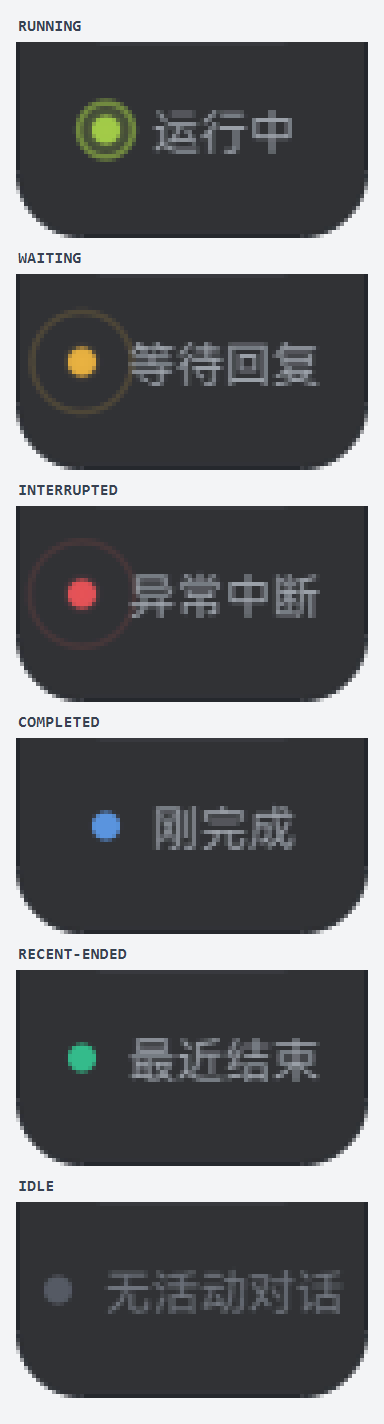
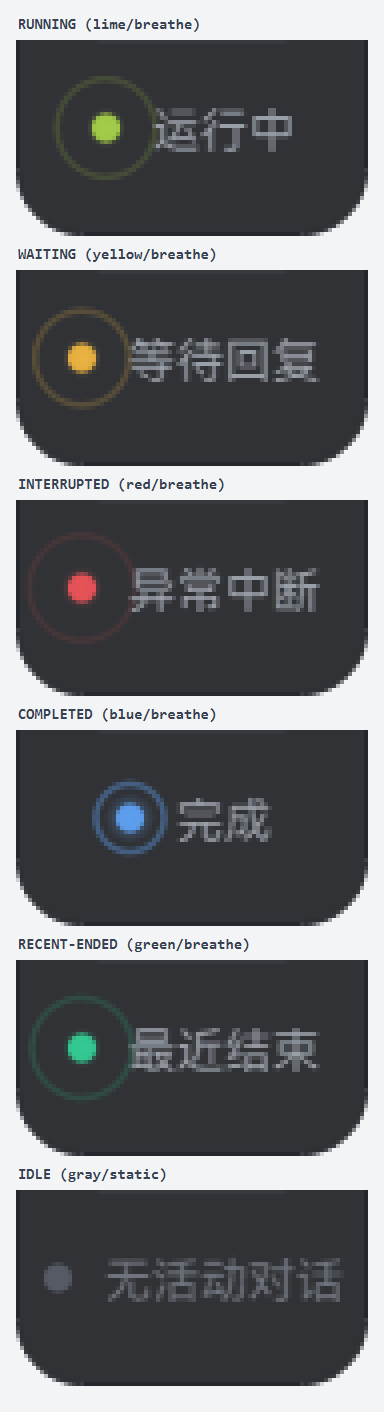
v0.1.11: activity light tweaks (completed label / breathe for all but idle)
Rename the Completed activity state label from 刚完成 to 完成. Make WatchBadge breathe for every state except Idle (gray): Completed (blue) and RecentlyEnded (green) now animate glow+ripple instead of staying static. Regenerate docs/activity-indicator.png. Update README/HANDOFF/CONVERSATION_HANDOFF. Bump version 0.1.11.

diff --git a/core/Types.h b/core/Types.h
@@ -179,7 +179,7 @@ inline QString activityStateText(ActivityState state, int count)
     case ActivityState::Interrupted:
         return n > 1 ? QStringLiteral("异常中断 %1").arg(n) : QStringLiteral("异常中断");
     case ActivityState::Completed:
-        return n > 1 ? QStringLiteral("刚完成 %1").arg(n) : QStringLiteral("刚完成");
+        return n > 1 ? QStringLiteral("完成 %1").arg(n) : QStringLiteral("完成");
     case ActivityState::RecentlyEnded:
         return n > 1 ? QStringLiteral("最近结束 %1").arg(n) : QStringLiteral("最近结束");
     case ActivityState::Idle:

diff --git a/ui/WatchBadge.cpp b/ui/WatchBadge.cpp
@@ -40,8 +40,8 @@ WatchBadge::WatchBadge(QWidget *parent)
 
 bool WatchBadge::stateBreathes(ActivityState state)
 {
-    return state == ActivityState::Running || state == ActivityState::WaitingReply
-            || state == ActivityState::Interrupted;
+    // 除“无活动对话（灰色）”外全部呼吸：运行中/等待回复/异常中断/完成/最近结束。
+    return state != ActivityState::Idle;
 }
 
 QColor WatchBadge::stateColor() const

diff --git a/main.cpp b/main.cpp
@@ -55,7 +55,7 @@ int main(int argc, char *argv[])
     QApplication app(argc, argv);
     QApplication::setApplicationName(QStringLiteral("AutoRun Codex"));
     QApplication::setOrganizationName(QStringLiteral("AutoRunCodex"));
-    QApplication::setApplicationVersion(QStringLiteral("0.1.10"));
+    QApplication::setApplicationVersion(QStringLiteral("0.1.11"));
     QApplication::setQuitOnLastWindowClosed(false);
 
     installFileLogger();

diff --git a/HANDOFF.md b/HANDOFF.md
@@ -1,7 +1,7 @@
 # AutoRun Codex 对话交接文档
 
-> 最后更新：2026-11-02 17:15（JST）
-> 当前版本：v0.1.10（开发中，可运行；悬浮条活动指示灯 + 写锁提示改进 + 写锁冲突自愈 + 悬浮条缩放适配 + HarmonyOS 统一字体 + 账号头像/昵称 + 重置卡到期预警 + UI 配色微调 + 续跑重试策略）
+> 最后更新：2026-11-02 18:30（JST）
+> 当前版本：v0.1.11（开发中，可运行；活动指示灯微调（完成文案/全状态呼吸）+ 写锁提示改进 + 写锁冲突自愈 + 悬浮条缩放适配 + HarmonyOS 统一字体 + 账号头像/昵称 + 重置卡到期预警 + UI 配色微调 + 续跑重试策略）
 > 项目路径：`D:\QtWorkspace\AutoRun_Codex`
 > 运行产物：`D:\QtWorkspace\AutoRun_Codex\dist\AutoRun_Codex.exe`
 > 代码仓库：<https://github.com/Rtyu3221cc/AutoRun_Codex>（v0.1.8 起；发布包见 GitHub Releases）
@@ -269,7 +269,7 @@ AutoRun_Codex.exe
 
 ---
 
-### 5.11 悬浮条活动指示灯（v0.1.10）
+### 5.11 悬浮条活动指示灯（v0.1.10，v0.1.11 微调）
 
 - **背景**：原来悬浮条底部的“● 看守中 N”呼吸灯只表示“有几个看守任务”，和时间/活动无关；用户要求改成“当前是否有对话正在运行”的全局指示灯。
 - **新语义**（`WatchBadge` 重写为活动指示灯，文字+圆点随状态变化，仍随悬浮条缩放等比缩放）：
@@ -278,13 +278,14 @@ AutoRun_Codex.exe
   | 运行中 | 绿黄 `theme::lime()` | 呼吸+涟漪 | 任一对话 `info.running`（rollout 最近仍在写入） |
   | 等待回复 | 黄色 `theme::yellow()` | 呼吸+涟漪 | 非 running，但 app-server thread 状态为 `active`（turn 已开始、rollout 最近无写入=等模型回复） |
   | 异常中断 | 红色 `theme::red()` | 呼吸+涟漪 | 任一对话 `info.interrupted`（限额中断等） |
-  | 刚完成 | 蓝色 `theme::blue()` | 常亮 | 任一对话最近 5 分钟内 `completedAt`（正常 task_complete） |
-  | 最近结束 | 绿色 `theme::green()` | 常亮 | 最近 5 分钟活动停止、但 `completedAt` 未知（兜底） |
+  | 完成 | 蓝色 `theme::blue()` | 呼吸 | 任一对话最近 5 分钟内 `completedAt`（正常 task_complete） |
+  | 最近结束 | 绿色 `theme::green()` | 呼吸 | 最近 5 分钟活动停止、但 `completedAt` 未知（兜底） |
   | 无活动对话 | 灰色 | 不呼吸 | 以上都没有 |
-- **优先级**：异常中断 > 运行中 > 等待回复 > 刚完成 > 最近结束 > 空闲；被 `ignoredThreadIds` 忽略的对话不参与统计。窗口默认 5 分钟，可用 `AR_ACTIVITY_RECENT_SECONDS` 覆盖。
-- **数据补充**：`RolloutState/ThreadInfo` 新增 `completedAt`（最后一次正常完成的 turn 时间），由 RolloutScanner 解析 `task_complete/turn_complete`（非限额错误）时写入；刻意忽略明显晚于当前时间的坏时间戳（曾导致指示灯永远停在“刚完成”）。
+- **v0.1.11 微调**：状态文案“刚完成”→“**完成**”；呼吸规则改为“**除灰色（无活动对话）外全部呼吸**”（完成/最近结束从常亮改为呼吸+涟漪，与其它状态一致）。
+- **优先级**：异常中断 > 运行中 > 等待回复 > 完成 > 最近结束 > 空闲；被 `ignoredThreadIds` 忽略的对话不参与统计。窗口默认 5 分钟，可用 `AR_ACTIVITY_RECENT_SECONDS` 覆盖。
+- **数据补充**：`RolloutState/ThreadInfo` 新增 `completedAt`（最后一次正常完成的 turn 时间），由 RolloutScanner 解析 `task_complete/turn_complete`（非限额错误）时写入；刻意忽略明显晚于当前时间的坏时间戳（曾导致指示灯永远停在“完成”）。
 - **其他**：主窗口摘要末尾追加「当前：运行中/等待回复/…」；活动状态变化时写一条 `[job] 活动指示灯：…` 日志；截图/调试可用 `AR_SCREENSHOT_FAKE_ACTIVITY=running|waiting|interrupted|completed|recent|idle[:N]` 强制某一状态。
-- **验证**：截图模式分别渲染 6 种状态（100% 与 50% 缩放），见 `docs/activity-indicator.png`；真实数据下能正确从「无活动对话」切到「刚完成」（有对话在 5 分钟内正常结束）。语义是推断：等待回复/最近结束为启发式，可能与极端情况有偏差。
+- **验证**：截图模式分别渲染 6 种状态（100% 与 50% 缩放），见 `docs/activity-indicator.png`；真实数据下能正确从「无活动对话」切到「完成」（有对话在 5 分钟内正常结束）。语义是推断：等待回复/最近结束为启发式，可能与极端情况有偏差。
 
 ---
 
@@ -318,12 +319,12 @@ AutoRun_Codex.exe
 `state` 枚举：Disabled=0, Waiting=1, Ready=2, Running=3, Succeeded=4, Failed=5, Paused=6。
 
 ### 6.3 当前运行状态（交接时）
-- **当前运行 v0.1.10**：`dist\AutoRun_Codex.exe`（PID 18676，2026-11-02 17:17:10 启动）；旧 v0.1.9 exe 备份为 `dist\AutoRun_Codex.exe.old-v019`（可删）。
+- **已部署 v0.1.11** 到 `dist\AutoRun_Codex.exe`（2026-11-02 18:18 替换；旧 v0.1.10 exe 备份为 `dist\AutoRun_Codex.exe.old-v010`，可删）。当前运行中的 PID 18676 仍是 v0.1.10（17:17 启动），**退出托盘旧实例重启后才是 v0.1.11**。
 - settings.json：`uiTheme=dark`、`widgetScale=90`、`autoReleaseWriterLock=true`、`displayRemaining=true`、`jitterSeconds=120`、`retryAttempts=3`。
 - 当前看守队列（交接时）：线程 `01a19b1f…`（生成云间日麻测试 APK），单次模式、状态 Waiting、`nextTriggerAt = 0`（只登记，等该对话下次被限额打断再排期）。
 - 之前那条 v0.1.8 遗留的 writer-lock 红灯（线程 `01a18233…`）已被用户移除/替换，不再是当前队列。
 - 最近额度（2026-11-02 17:01 JST 主窗口截图）：5h 剩余约 41%（18:08 重置）、每周剩余约 8%（11-04 15:37 重置）、plan=plus、重置卡 3 张。界面为深色主题；启动日志显示 `活动指示灯：无活动对话`。
-- 发布状态：GitHub Release v0.1.10 已发布（<https://github.com/Rtyu3221cc/AutoRun_Codex/releases/tag/v0.1.10>），main = `813a391`。
+- 发布状态：GitHub Release v0.1.11 已发布（<https://github.com/Rtyu3221cc/AutoRun_Codex/releases/tag/v0.1.11>；asset 与 SHA256 见 Release 页面或 `release\AutoRun_Codex-v0.1.11-win64.zip.sha256`）。
 - 注意：如果某条看守的 nextTriggerAt 已过（>0 且小于当前时间），启动后会“补跑”一次；本机当前那条是 0，所以不会。
 
 ---
@@ -360,7 +361,7 @@ AutoRun_Codex.exe
    - 仅等待模式：持锁 20 秒期间 jobs.json 保持 `writerBlocked=true / attempts=0 / cycleAttempts=0 / state=Waiting`（不计失败、不亮红灯）；锁释放后 2 秒内自动发起 `thread/resume`（dummy 线程报 `no rollout found`，符合预期）；
    - 自动释放模式：`AR_WRITER_GRACE_SECONDS=3` + `AR_CODEX_DESKTOP_PID=<持锁测试进程>` → AutoRun 在宽限后自动结束该进程、锁释放、立即续跑；真实 ChatGPT 桌面版进程数前后一致（15 → 15）；
    - 日志验证：`[job] ... 被 Codex 桌面版占用 ... / 已自动关闭 Codex 桌面版 ... / 写锁已释放，立即续跑` 均落盘到 auto-run-codex.log。
-13. **活动指示灯验证（v0.1.10）**：隔离 APPDATA + `AR_SCREENSHOT_FAKE_ACTIVITY` 分别渲染 6 种状态（100% / 50% 缩放均检查文字不溢出），见 `docs/activity-indicator.png`；真实数据下启动后日志出现 `活动指示灯：无活动对话` → `活动指示灯：刚完成`（5 分钟内有对话正常结束），并修复过一处“未来时间戳导致永远显示刚完成”的判定 bug。
+13. **活动指示灯验证（v0.1.10）**：隔离 APPDATA + `AR_SCREENSHOT_FAKE_ACTIVITY` 分别渲染 6 种状态（100% / 50% 缩放均检查文字不溢出），见 `docs/activity-indicator.png`；真实数据下启动后日志出现 `活动指示灯：无活动对话` → `活动指示灯：完成`（5 分钟内有对话正常结束），并修复过一处“未来时间戳导致永远显示完成”的判定 bug。
 
 ---
 
@@ -381,7 +382,7 @@ AutoRun_Codex.exe
 13. **周额度**：周额度耗尽时 JobEngine 没有专门判断 secondary 100%，仍会按 5h resetAt 触发、重试 3 次后转红；后续应显式判断周额度已尽并直接说明。
 14. **经典样式小尺寸文字拥挤（v0.1.8 发现，未修）**：悬浮条缩放到 50% 附近时，经典样式圆环里的中文标题（“5h 窗口/每周”）会贴着描边、略显拥挤；RingWidget 内部字号按环径缩放但没有省略/隐藏策略。参考/极简样式不受影响。若用户反馈再处理。
 15. **自动关闭桌面版的边界（v0.1.9）**：写锁冲突时默认只会在“系统闲置 ≥5 分钟 + 目标对话空闲 ≥90 秒”时自动关闭 Codex 桌面版；如果桌面版同时在其它对话里执行任务，关闭会打断那些任务（无法逐对话释放写锁）。用户可在设置里关闭该行为（只等待锁释放）。
-16. **活动指示灯是推断（v0.1.10）**：“运行中”来自 rollout 文件活动，“等待回复”依赖 app-server 的 active 状态 + 最近的 rollout 写入间隔，“刚完成/最近结束”是 5 分钟窗口启发式；极端情况（超长工具调用、rollout 尾部截断、坏时间戳）会有偏差。被忽略的对话不参与统计；若某条很久以前限额中断的对话一直没处理，红色会持续存在（这是提示去处理它）。
+16. **活动指示灯是推断（v0.1.10，v0.1.11 调整呼吸）**：“运行中”来自 rollout 文件活动，“等待回复”依赖 app-server 的 active 状态 + 最近的 rollout 写入间隔，“完成/最近结束”是 5 分钟窗口启发式；极端情况（超长工具调用、rollout 尾部截断、坏时间戳）会有偏差。被忽略的对话不参与统计；若某条很久以前限额中断的对话一直没处理，红色会持续存在（这是提示去处理它）。
 
 ---
 
@@ -417,7 +418,7 @@ AutoRun_Codex.exe
   - `AR_SCREENSHOT_SWITCH_THEME=light|dark`：弹卡可见时切换主题，抓 `*-switched.png`；
   - `AR_SCREENSHOT_CLOSE=1`（配合 `AR_SCREENSHOT_REOPEN=1`）：抓收回动画中间帧并在收回后再次打开，验证第二次弹出尺寸正确。
   - **悬浮条缩放验收（v0.1.8）**：在隔离 APPDATA 的 settings.json 里把 `widgetScale` 设为 50 / 100 / 140，配 `AR_SCREENSHOT_DIR` + `AR_SCREENSHOT_FAKE_REMAINING=67,30` 启动，分别抓三种缩放的 `quota-widget.png`。
-  - **活动指示灯验收（v0.1.10）**：`AR_SCREENSHOT_FAKE_ACTIVITY=running|waiting|interrupted|completed|recent|idle`（可加 `:N` 指定数量）强制渲染某一状态；也可用 `AR_ACTIVITY_RECENT_SECONDS` 调整“刚完成/最近结束”的展示窗口（默认 300）。
+  - **活动指示灯验收（v0.1.10）**：`AR_SCREENSHOT_FAKE_ACTIVITY=running|waiting|interrupted|completed|recent|idle`（可加 `:N` 指定数量）强制渲染某一状态；也可用 `AR_ACTIVITY_RECENT_SECONDS` 调整“完成/最近结束”的展示窗口（默认 300）。
 - 续跑重试/失败告警测试：
   - 用临时 APPDATA + 手写 `jobs.json`（state=Failed, attempts=3）启动，可直接看红灯 UI；
   - 用不存在的 threadId + `AR_RETRY_DELAY_SECONDS=2`（`AR_RESET_WAIT_SECONDS` 可覆盖重置等待）可在 ~30 秒内跑完“3 次失败 → 红色告警”的完整状态机（这里故意用红色，指看守灯的失败告警）。
@@ -458,7 +459,7 @@ AutoRun_Codex.exe
 14. **为什么失败要重试 3 次再亮红灯**：网络抖动 / writer lock / 服务端延迟都可能是一次性的；2 分钟间隔 × 3 次能覆盖大部分瞬时故障。3 次都失败说明不是抖动，改为 Failed + 红灯并停止自动重排，避免用户以为看守正常却实际一直没续上。
 15. **为什么红灯后不自动等下一个窗口**：持续看守若静默等待，用户可能很久之后才发现一次都没续上；红灯 + 手动“立即续跑”让失败可见、可决策。
 16. **为什么写锁冲突要单独处理（v0.1.9）**：这不是续跑失败，而是 Codex 单写者模型的正常竞争——桌面版打开着对话就必然冲突。把它计入失败次数/亮红灯会误导用户，而且重试多少次都没用。正确做法是等待锁释放，并在用户确实离开时自动释放占用（关闭桌面版）；同时不把我们自己 app-server 已加载线程的写锁误判为冲突。
-17. **为什么把“看守中 N”呼吸灯换成活动指示灯（v0.1.10）**：旧灯只表达“有几个看守任务”，既不反映对话是否真在运行，也无法提示异常中断/刚完成；用户实际关心的是“现在有没有对话在跑/在等我/出问题了”。新指示灯按全局最高优先级显示运行中/等待回复/异常中断/刚完成/最近结束/空闲，颜色语义与主窗口状态一致；仍然保留“看守队列”数字在弹卡和主窗口里，不丢信息。
+17. **为什么把“看守中 N”呼吸灯换成活动指示灯（v0.1.10）**：旧灯只表达“有几个看守任务”，既不反映对话是否真在运行，也无法提示异常中断/完成；用户实际关心的是“现在有没有对话在跑/在等我/出问题了”。新指示灯按全局最高优先级显示运行中/等待回复/异常中断/完成/最近结束/空闲，颜色语义与主窗口状态一致；仍然保留“看守队列”数字在弹卡和主窗口里，不丢信息。v0.1.11 起除灰色外所有状态都呼吸，且“刚完成”文案简化为“完成”。
 
 ---
 
